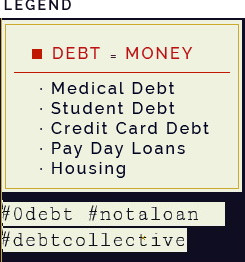
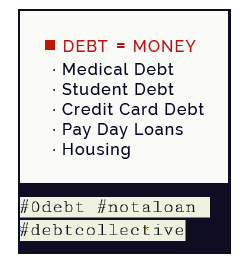
Fix zindexing

diff --git a/be/proj/templates/proj/splash.html b/be/proj/templates/proj/splash.html
@@ -59,7 +59,7 @@
               Creditors are holding us hostage.
             </span>
             <span ng-class="{pane: yLoc > 800 && yLoc <= 1200}">
-              When we can’t meet the terms of the contact, we are harassed,
+              When we can’t meet the terms of the contract, we are harassed,
             </span>
             <span ng-class="{pane: yLoc > 1000 && yLoc <= 1200}">
               we have our wages garnished, and some of us are even imprisoned.
@@ -67,7 +67,7 @@
           </div>
           <div class="slide">
             <span ng-class="{pane: yLoc > 1200 && yLoc <= 1600}">
-              The goal of the Debt Collective is to fight back against creditors
+              The goal of the Debt Collective is to fight back
             </span>
             <span ng-class="{pane: yLoc > 1400 && yLoc <= 1600}">
               and transform the way we finance basic necessities, such as education, health care, and housing.
@@ -89,6 +89,7 @@
       <section>
         <div class="map-container" ng-controller="mapCtrl">
           <img src="/static/img/legend.png" class="legend" />
+          <img src="/static/img/compassrose.png" class="compassrose" />
           <div id="mapdiv" style="width: 100%; height: 500px;"></div>
           <!-- <a class="twitter-timeline"
            data-chrome="noheader nofooter noborders noscrollbar transparent"
@@ -99,9 +100,11 @@
             #notaloan Tweets
            </a>-->
         </div>
-        <div class="body-text anchor" id="learn">
-          <h2>The Debt Collective</h2>
-          <p>Every month, we are forced into debt for basic necessities. We have no choice but to enter into contracts under unfair terms. We have little power to bargain or negotiate. Creditors are holding us hostage. When we can’t meet the terms of the contact, we are harassed, we have our wages garnished, and some of us are even imprisoned. The goal of the Debt Collective aims to fight back against creditors and transform how basic necessities, such as education, health care, and housing are provided.
+        <div class="body-text anchor map-body" id="learn">
+          <div class="title-banner">
+            <img src="/static/img/map-title-banner.png" class="map-banner" />
+          </div>
+          <p>Every month, we are forced into debt for basic necessities. We have no choice but to enter into contracts under unfair terms. We have little power to bargain or negotiate. Creditors are holding us hostage. When we can’t meet the terms of the contract, we are harassed, we have our wages garnished, and some of us are even imprisoned. The goal of the Debt Collective aims to fight back and transform how basic necessities, such as education, health care, and housing are provided.
           </p>
             <h2>Why Join <span>the Debt Collective?</span></h2>
             <p>Creditors profit from the data they have about our loans. We all owe, but we aren’t always sure who really profits from our loan payments. Who is at the end of that paper trail?

diff --git a/be/proj/static/css/base.css b/be/proj/static/css/base.css
@@ -60,10 +60,17 @@
   position: relative; }
   .map-container .legend {
     position: absolute;
-    bottom: 0;
+    top: 0;
     left: 0;
     z-index: 10000;
-    width: 190px; }
+    width: 175px; }
+  .map-container .map-banner {
+    position: absolute;
+    z-index: 1000;
+    bottom: 0; }
+  .map-container .compassrose {
+    position: absolute;
+    right: 0px; }
 
 #corinthian .button, input[type="text"], input[type="email"], button, #corinthian input[type="text"], #corinthian input[type="email"], #corinthian button, body, .splash .splash-footer, .learnMore, .dropdown-menu {
   font-family: "Cutive mono", serif;
@@ -360,7 +367,7 @@ body {
   left: 1px; }
 
 #mapdiv {
-  background-color: #39413f; }
+  background-color: #110d21; }
 
 .social-media {
   opacity: 0;
@@ -385,6 +392,12 @@ section {
   position: relative;
   margin: 44px auto;
   line-height: 34px; }
+  .body-text.map-body {
+    margin-top: -78px;
+    padding-top: 0; }
+  .body-text .title-banner {
+    text-align: center;
+    padding-bottom: 22px; }
   .body-text p {
     letter-spacing: 1.25px;
     margin-bottom: 22px; }
@@ -395,6 +408,7 @@ section {
   -ms-transition: all 1s ease;
   -o-transition: all 1s ease;
   transition: all 1s ease;
+  z-index: 999999;
   font-family: "Cutive mono";
   opacity: 0;
   position: fixed;
@@ -576,6 +590,11 @@ header {
       text-align: center;
       padding: 5px; }
     .nav-footer .dc-input form {
+      -webkit-transition: all 1s ease;
+      -moz-transition: all 1s ease;
+      -ms-transition: all 1s ease;
+      -o-transition: all 1s ease;
+      transition: all 1s ease;
       max-width: 400px;
       width: 100%;
       margin: 0 auto; }
@@ -592,7 +611,8 @@ header {
   top: 0;
   right: 0;
   width: 100%;
-  background-color: #110d21; }
+  background-color: #110d21;
+  z-index: 9999999; }
   .header-links a {
     color: #39413f; }
 

diff --git a/be/proj/static/css/base.scss b/be/proj/static/css/base.scss
@@ -47,12 +47,24 @@ $rule:      desaturate(lighten($mid-grey, 20%), 30%);
 
 .map-container {
   position: relative;
+
   .legend {
     position: absolute;
-    bottom: 0;
+    top: 0;
     left: 0;
     z-index: 10000;
-    width: 190px;
+    width: 175px;
+  }
+
+  .map-banner {
+    position: absolute;
+    z-index: 1000;
+    bottom: 0;
+  }
+
+  .compassrose {
+    position: absolute;
+    right: 0px;
   }
 }
 
@@ -305,7 +317,7 @@ body {
 }
 
 #mapdiv {
-  background-color: $off-grey;
+  background-color: $dark-blue;
 }
 
 .social-media {
@@ -339,6 +351,16 @@ section {
   margin: 44px auto;
   line-height: 34px;
 
+  &.map-body {
+    margin-top: -78px;
+    padding-top: 0;
+  }
+
+  .title-banner {
+    text-align: center;
+    padding-bottom: 22px;
+  }
+
   p {
     letter-spacing: 1.25px;
     margin-bottom: 22px;
@@ -348,6 +370,7 @@ section {
 $banner-height: 32px;
 .banner {
   @include frame-transition();
+  z-index: 999999;
   .text {
     background-color: rgba(109,15,21,.65);
     height: $banner-height;
@@ -572,6 +595,7 @@ header {
     }
 
     form {
+      @include frame-transition();
       max-width: 400px;
       width: 100%;
       margin: 0 auto;
@@ -592,6 +616,7 @@ header {
   right: 0;
   width: 100%;
   background-color: $dark-blue;
+  z-index: 9999999;
 
   a {
     color: $menu-color;
